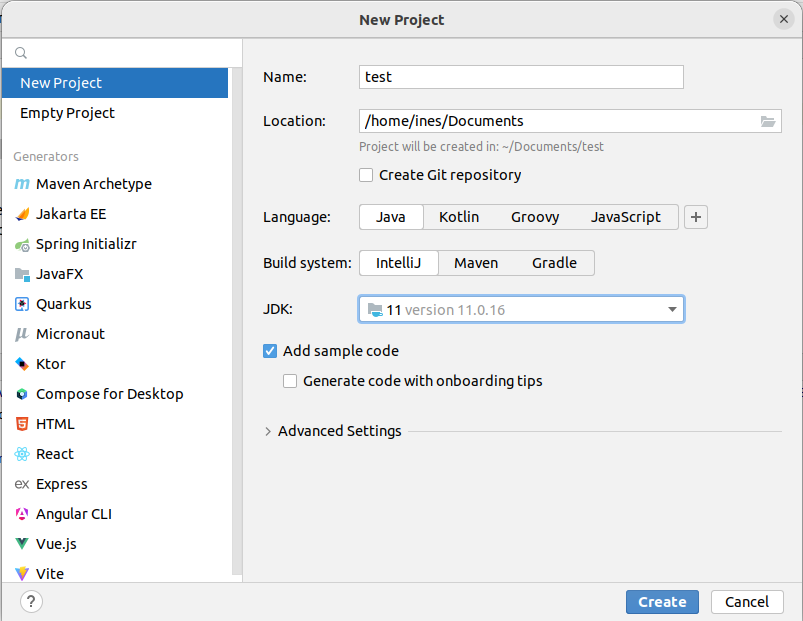
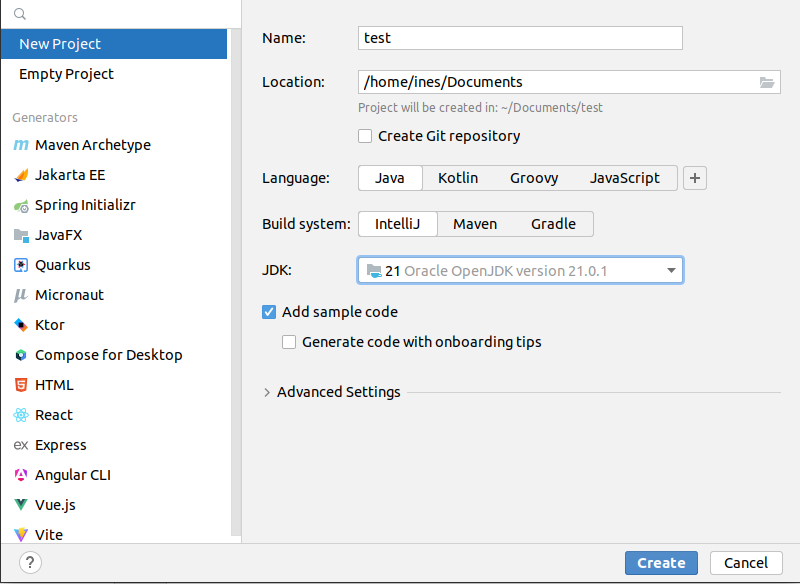
Modif image new_project_screen

diff --git a/source/part1.rst b/source/part1.rst
@@ -7,7 +7,7 @@ Part 1: From Python to Java
 Part 1 of this book is intended for students and hobbyists who are already familiar with the basics of Python programming, i.e., they know how to use variables, lists, functions, and plain data objects.
 A deeper knowledge of object-oriented programming is not required.
 
-The goal of the following sections is to make you quickly familiar with the important differences between Python and Java and with the basic object oriented mechanisms of Java. More advanced topics, such as interfaces, abstract classes, or lambda functions, will be seen in the other parts of the book.
+The goal of the following sections is to make you quickly familiar with the important differences between Python and Java and with the basic object oriented mechanisms of Java. More advanced topics, such as interfaces, abstract classes, or lambda functions, will be seen in the subsequent parts of the book.
 
 
 Your first Java program with IntelliJ
@@ -18,11 +18,11 @@ Your first Java program with IntelliJ
 Installing IntelliJ
 -------------------
 
-You might have already used an Integrated Development Environment (IDE) to write Python programs. In this course, we will do the same for programming in Java: We will use the free "Community Edition" of IntelliJ IDEA (we will just call it "IntelliJ" in the following). You can download the installer from  `<https://www.jetbrains.com/idea/download/>`_ (scroll down to find the free Community Edition, you don't need the commercial Ultimate Edition). Start the installer and follow the instructions.
+You might have already used an Integrated Development Environment (IDE) to write Python programs. In this course, we will do the same for programming in Java: we will use the free "Community Edition" of IntelliJ IDEA (simply referred to as "IntelliJ" hereafter). You can download the installer from  `<https://www.jetbrains.com/idea/download/>`_ (scroll down to find the free Community Edition, you don't need the commercial Ultimate Edition). Start the installer and follow the instructions.
 
-The second thing you will need for Java programming is a *Java Development Kit* (JDK). A JDK is a software package that contains the tools that you need to build and run Java programs. The JDK also includes a *very, very  large* library of useful classes for all kinds of programming tasks. You can see the content of the library here: `<https://docs.oracle.com/javase/8/docs/api/index.html>`_.
+The second thing you will need for Java programming is a *Java Development Kit* (JDK). A JDK is a software package that contains the tools that you need to build and run Java programs. The JDK also includes a *very, very  large* library of useful classes for all kinds of programming tasks. You can see the content of the library here: `<https://docs.oracle.com/javase/8/docs/api/index.html>`_. %https://docs.oracle.com/en/java/javase/21/docs/api/index.html New link for Java21, shoud we update ?
 
-Fortunately, IntelliJ can automatically download the JDK for you when you create a new project, so you don't have to worry about the JDK now. But if one day you want to write a Java application on a computer without IntelliJ, you have to manually download the JDK from `<https://openjdk.org/>`_ and install it.
+Fortunately, IntelliJ can automatically download the JDK for you when you create a new project, so you don't have to worry about the JDK for now. But if later on you wish to write a Java application on a computer without IntelliJ, you have to manually download the JDK from `<https://openjdk.org/>`_ and install it.
 
 Creating a new project
 -----------------------
@@ -33,7 +33,7 @@ Start IntelliJ. A window will open where you can create a new project. Click on 
   :width: 90%
   :alt: Starting a new project
 
-To create a new project, you have to enter a project name (in the field ``Name``) and a location on your disk where you want to store the project (in the field ``Location``). Keep the other fields ``Language``, ``Build system``, and ``Add sample code`` as shown in the above picture. But there is something to do for the field ``JDK``: As you can see in the picture, there was already JDK version 20 (and some other JDK versions) installed on my computer. If you have not already installed a JDK on your computer, open the dropdown list and choose ``Download JDK...`` as shown in the picture below:
+To create a new project, you have to enter a project name (in the field ``Name``) and a location on your disk where you want to store the project (in the field ``Location``). Keep the other fields ``Language``, ``Build system``, and ``Add sample code`` as shown in the above picture. But there is something to do for the field ``JDK``: As you can see in the picture, there was already JDK version 11 (and some other JDK versions) installed on my computer. If you have not already installed a JDK on your computer, open the dropdown list and choose ``Download JDK...`` as shown in the picture below:
 
 .. image:: _static/images/part1/select_jdk_screen.svg
   :width: 90%
@@ -44,7 +44,7 @@ A small window should appear where you can select which JDK version to download 
 .. image:: _static/images/part1/download_jdk_screen.png
   :alt: Downloading a JDK
 
-Select version 20 from the vendor ``Oracle OpenJDK`` (actually, any version newer than 17 is fine for this book). You can keep the location proposed by IntelliJ. Click the ``Download`` button and complete the JDK installation. Once everything is ready, you can finally create your first Java project. IntelliJ will normally automatically open the new project and show you the main window:
+Select version 21 from the vendor ``Oracle OpenJDK`` (actually, any version newer than 17 is fine for this book). You can keep the location proposed by IntelliJ. Click the ``Download`` button and complete the JDK installation. Once everything is ready, you can finally create your first Java project. IntelliJ will normally automatically open the new project and show you the main window:
 
 .. image:: _static/images/part1/first_project_screen.png
   :width: 90%
